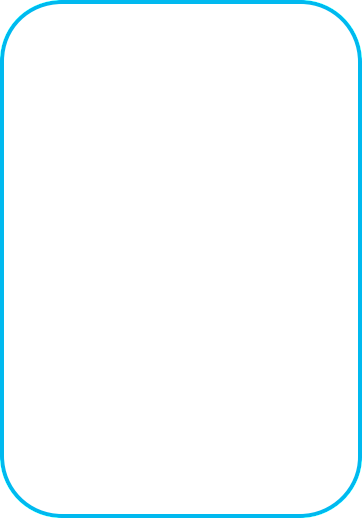
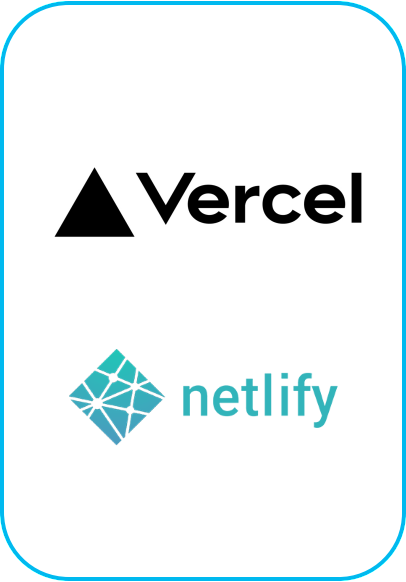
vecel로 배포 및 READMD 수정

diff --git a/src/components/Skills.jsx b/src/components/Skills.jsx
@@ -22,7 +22,7 @@ function Skills() {
       image: skill2,
     },
     {
-      name: '차후 업데이트',
+      name: 'Deployment',
       image: skill3,
     },
   ];

diff --git a/README.md b/README.md
@@ -1,7 +1,7 @@
 <div align="center">
   <img src = "src\assets\portfolio.png">
   
-  |　<a href="https://fable0831.netlify.app">사이트</a>　|　<a href="https://velog.io/@fable0831/%ED%8F%AC%ED%8A%B8%ED%8F%B4%EB%A6%AC%EC%98%A4-%EC%82%AC%EC%9D%B4%ED%8A%B8-%EB%A7%8C%EB%93%A4%EA%B8%B0">블로그</a>　|　　
+  |　<a href="https://fable0831.vercel.app/">사이트</a>　|　<a href="https://velog.io/@fable0831/%ED%8F%AC%ED%8A%B8%ED%8F%B4%EB%A6%AC%EC%98%A4-%EC%82%AC%EC%9D%B4%ED%8A%B8-%EB%A7%8C%EB%93%A4%EA%B8%B0">블로그</a>　|　　
   <br>
 </div>
 <br>
@@ -19,9 +19,9 @@
 ## 📚 기능
 
 - 미디어 쿼리를 사용해 반응형 웹사이트로 제작
-- Netlify로 호스팅
+- Vecel로 호스팅
 
 ## 🎓 차후 업데이트 방향
 
-- Typescript 적용
-- Github Action 활용
+:black_square_button: Typescript 적용
+:black_square_button: Github Action 활용
